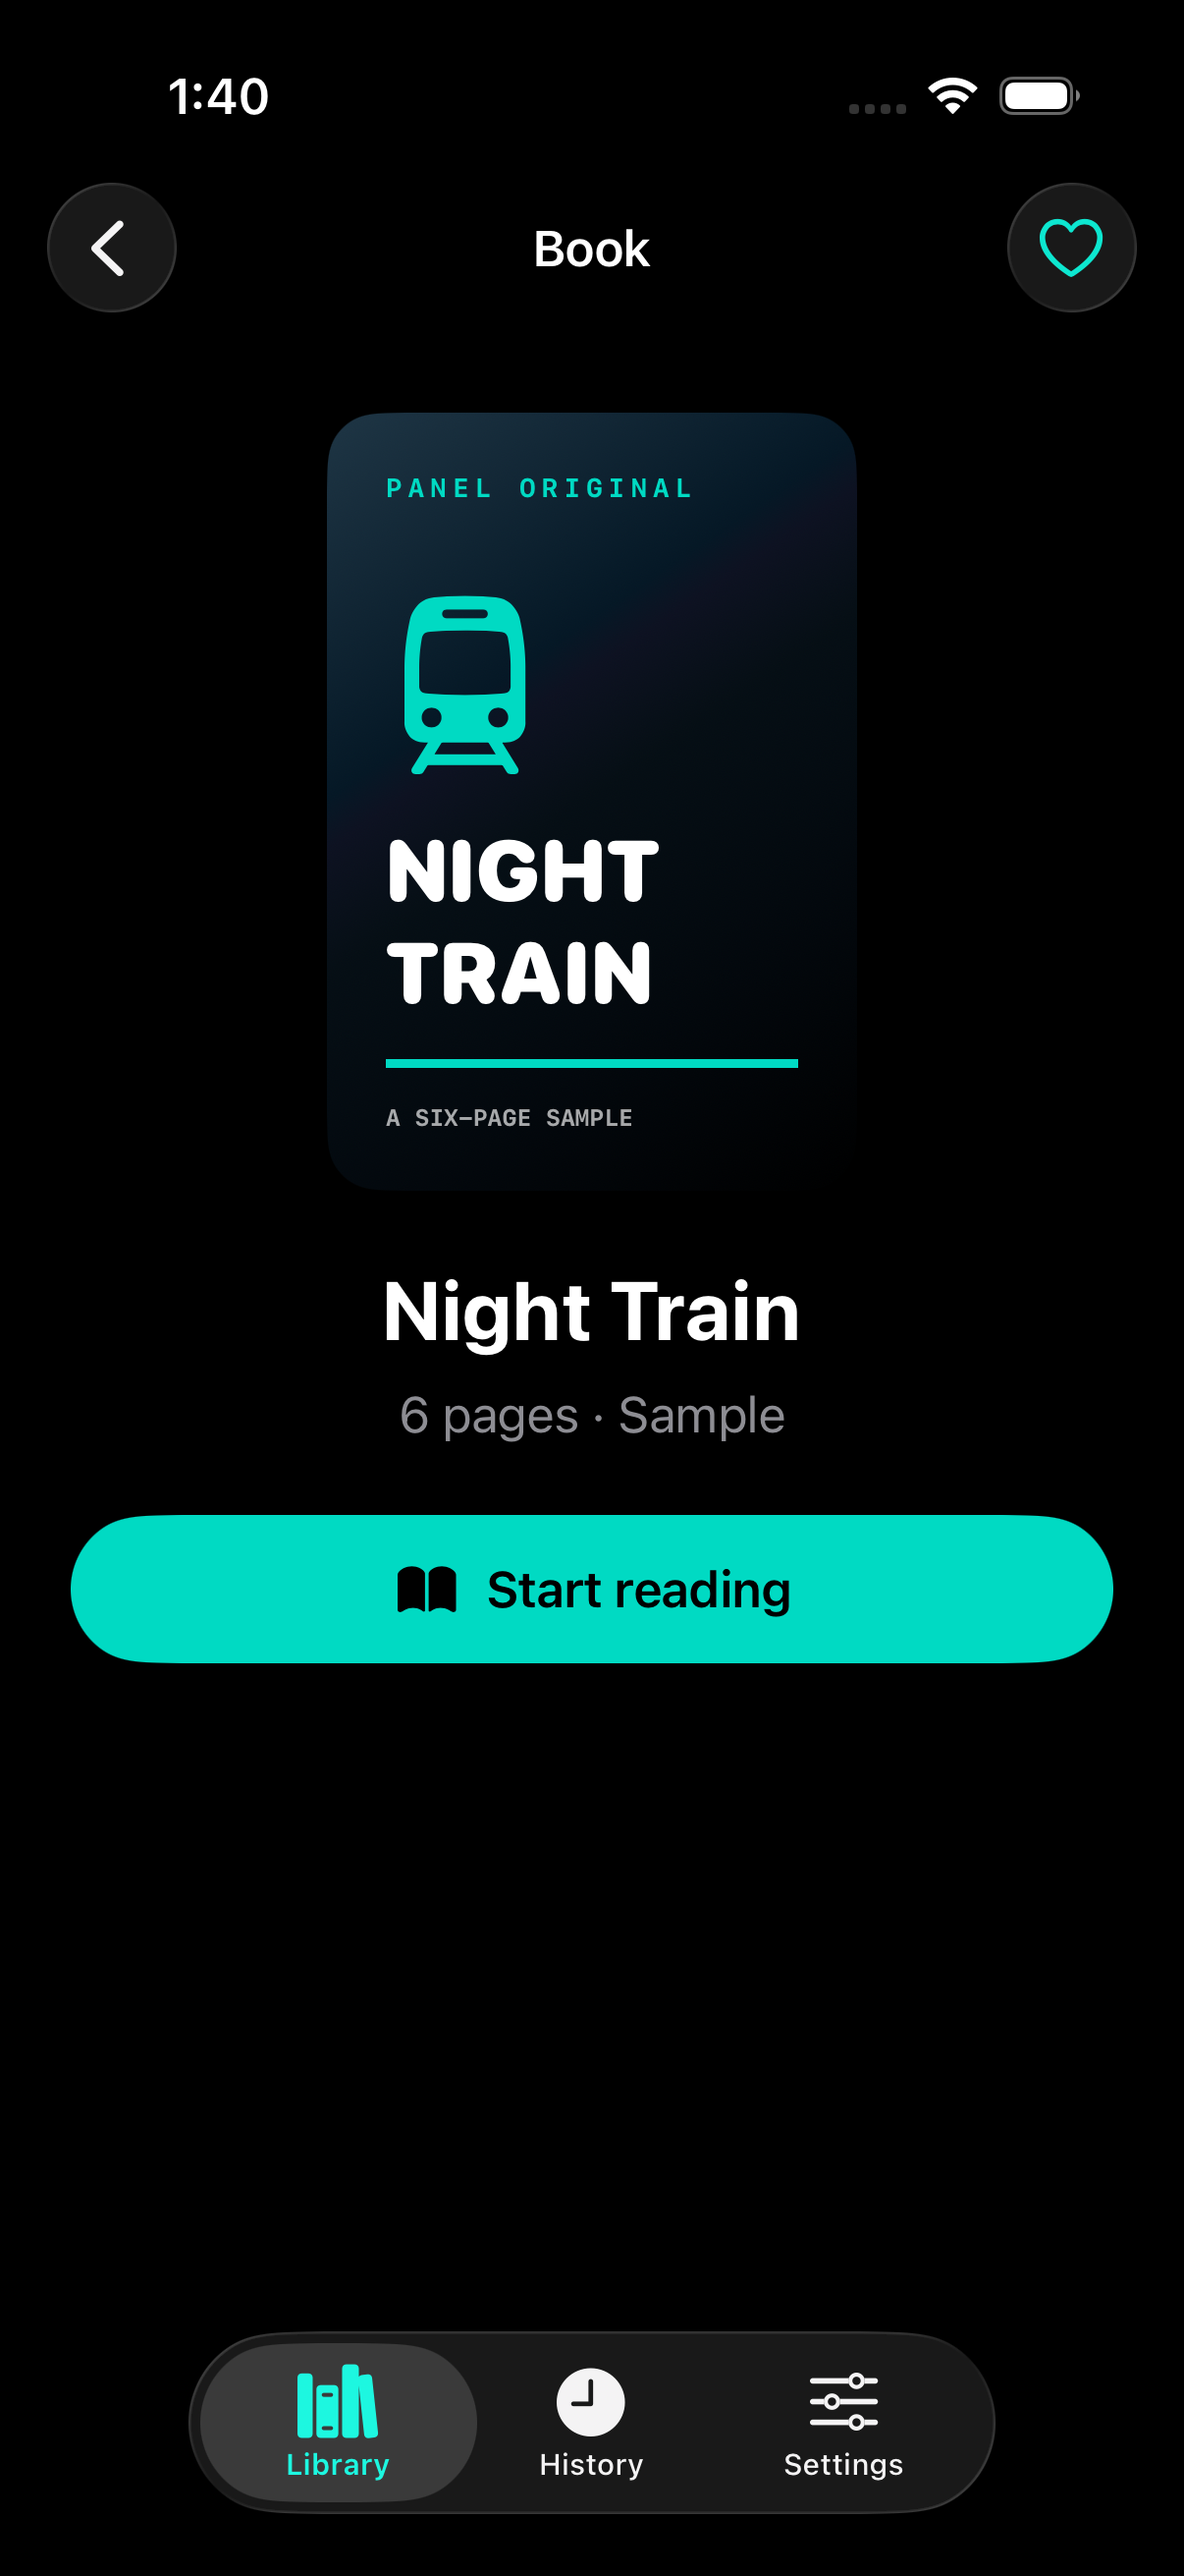
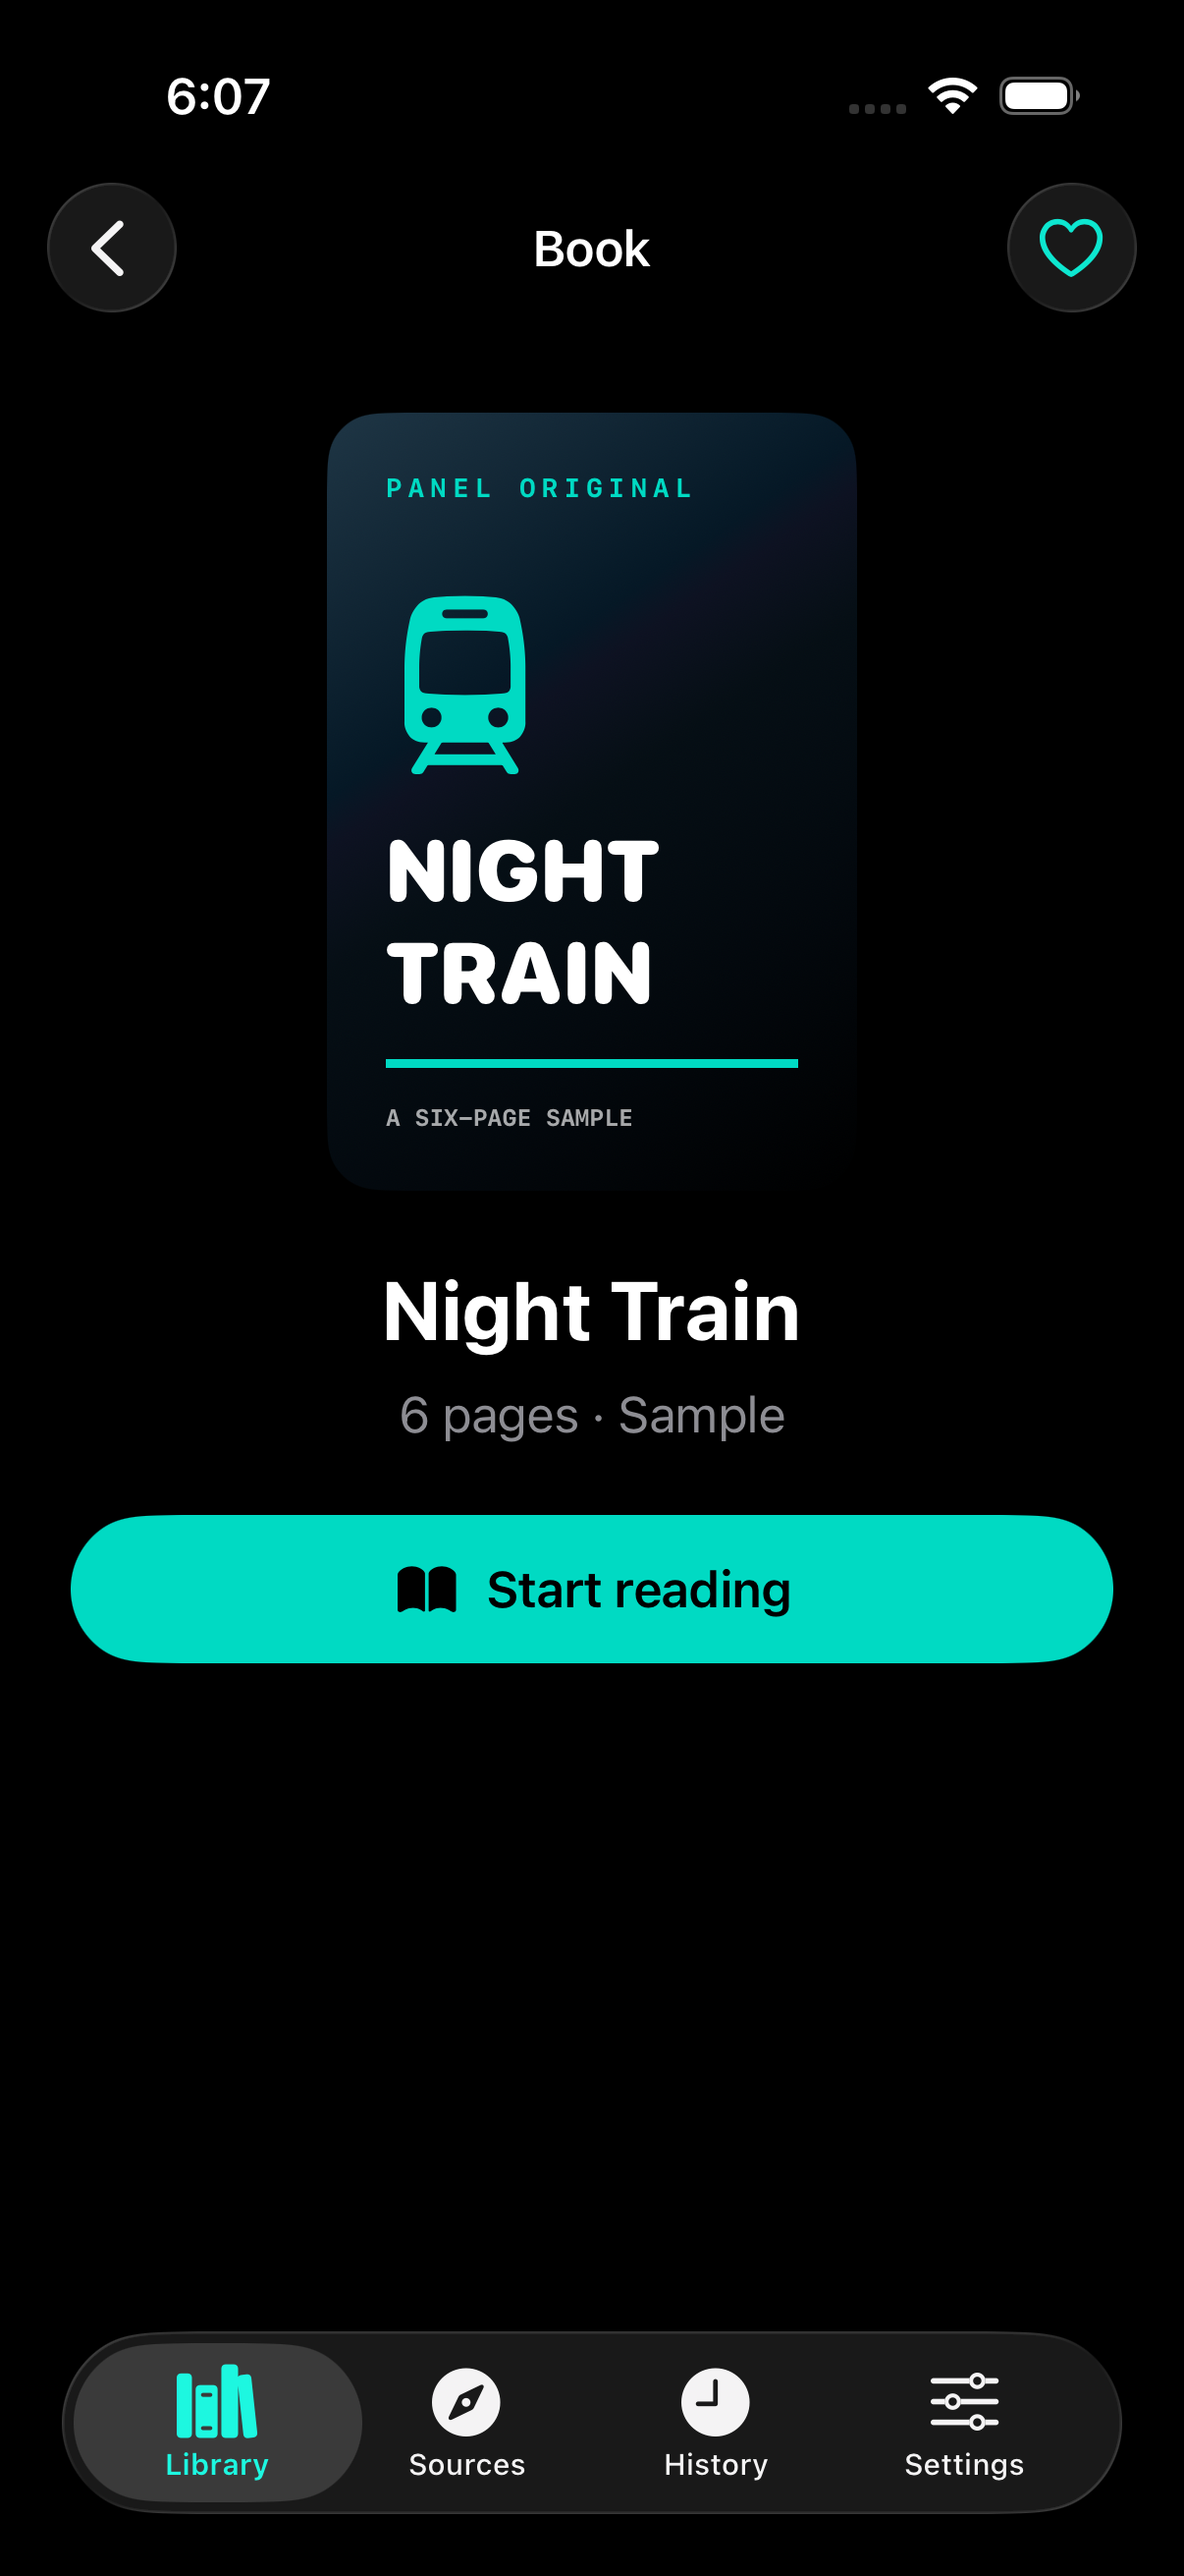
Publish Sources previews and eleven passing simulator checks [skip ci]

diff --git a/README.md b/README.md
@@ -11,12 +11,13 @@ and use the included GitHub Actions workflow to build on a cloud Mac.
 
 ## Current status
 
-The source is public. The new Sources browser is awaiting cloud validation.
-The [previous cloud build and all seven tests](https://github.com/masukur190929/panel-reader-ios/actions/runs/37937634798)
-passed on 9 October 2026 using Xcode 26.6 and an iPhone simulator. The expanded
-suite also checks saved websites, web bookmarks, address validation and browser
-navigation. Browser UI tests use clearly labelled, original local HTML fixtures;
-they do not certify that a third-party site works or grants integration rights.
+The source is public. The [latest cloud build and all eleven tests](https://github.com/masukur190929/panel-reader-ios/actions/runs/37970412878)
+passed on 9 October 2026 using Xcode 26.6 and an iPhone simulator. Eight data
+tests cover imports, saved reading state, thumbnails, saved websites, web
+bookmarks and damaged-file preservation. Three UI tests verify reading controls,
+right-to-left swipes, website navigation, saving/reopening web pages and adding
+a custom website. Browser UI tests use clearly labelled, original local HTML
+fixtures; they do not certify that a third-party site works or grants integration rights.
 Screenshots and a test summary are exported as the `reader-ui-previews` Actions
 artifact; download it from the linked run while its five-day retention lasts.
 
@@ -26,14 +27,21 @@ configured.
 
 ## Simulator preview
 
-Actual UI-test screenshots from the latest validated build, on an iPhone 17 Pro simulator running iOS 26.5.
-The sample artwork is original demonstration content.
+Actual UI-test screenshots on an iPhone 17 Pro simulator running iOS 26.5.
+The Sources card preview is from the [first validated browser build](https://github.com/masukur190929/panel-reader-ios/actions/runs/37969055537).
+Saved pages, library, details and history are from the latest run; the unchanged
+reader views retain previews from the [earlier reader build](https://github.com/masukur190929/panel-reader-ios/actions/runs/37937634798).
+The sample artwork and browser test page are original content.
+Some initial simulator captures omitted native labels or inactive tab icons;
+device testing must determine whether this is a capture issue or an app issue.
 
-| Library | Reader |
+| Sources | Saved pages — original offline test page bookmark |
 | --- | --- |
-| ![Library](docs/images/library.png) | ![Reader](docs/images/reader.png) |
+| ![Sources](docs/images/sources.png) | ![Saved pages with an original offline test page bookmark](docs/images/saved-web-pages.png) |
 
-[Book details](docs/images/book-details.png) · [History](docs/images/history.png)
+[Website browser preview in the reader-ui-previews Actions artifact](https://github.com/masukur190929/panel-reader-ios/actions/runs/37970412878)
+· [Library](docs/images/library.png) · [Reader](docs/images/reader.png)
+· [Book details](docs/images/book-details.png) · [History](docs/images/history.png)
 · [Right-to-left reader](docs/images/reader-rtl.png)
 · [Machine-readable test summary](docs/validation/simulator-test-summary.json)
 

diff --git a/START_HERE.md b/START_HERE.md
@@ -9,9 +9,9 @@ submission have not run.
 
 Your public repository is
 [masukur190929/panel-reader-ios](https://github.com/masukur190929/panel-reader-ios).
-The source and cloud workflows are included there. The previous compile and
-seven tests passed; the Sources update has an expanded suite and is awaiting
-cloud validation. Follow these steps to check the results and continue development:
+The source and cloud workflows are included there. The compile, eight data
+tests and three UI tests passed. Follow these steps to check the results and
+continue development:
 
 1. Open the repository's **Actions** page and choose **Build and test iOS** to
    see the cloud Mac's compilation, library tests and UI test results. Download
@@ -25,7 +25,7 @@ cloud validation. Follow these steps to check the results and continue developme
    membership. A successful cloud build still needs real iPhone testing.
 
 The first workflow does not produce an app you can install on your iPhone.
-It verifies compilation, automated library checks and the sample's UI flow.
+It verifies compilation, automated data checks and the reader/browser UI flows.
 
 ## After the cloud build passes
 
@@ -51,7 +51,8 @@ App Review. Apple decides whether the app is accepted.
   saved web pages, resume links and sharing.
 - An Xcode project and cloud build/test and TestFlight upload workflows.
 - Tests for file imports, persistence and preservation of a damaged library,
-  plus a UI check of the sample's reading, bookmarking and history flow.
+  saved web links and browser bookmarks, plus reader and browser UI checks.
+  The browser check uses an original offline page, not a live manga site.
 
 The source websites provide their own search and reading controls. Native manga
 search/chapter lists, CBZ/CBR archives, chapter downloads, tracking-service accounts,

diff --git a/docs/APP_STORE_RELEASE.md b/docs/APP_STORE_RELEASE.md
@@ -32,6 +32,10 @@ The signing guide explains the repository Secrets used by the cloud workflow.
 5. Check imports from Files, long books, damaged files, rotation, zoom,
    bookmarks, history, deletion and accessibility. The simulator UI test
    covers the original sample flow, not every imported document.
+   Check first-launch rendering in particular: some library/source labels and inactive
+   tab icons were incomplete in the cloud simulator's initial screenshot, while
+   later source and saved-page screens rendered correctly. Confirm whether this
+   is a simulator capture issue or an app issue on physical devices before release.
 
 ## Product work before public release
 
